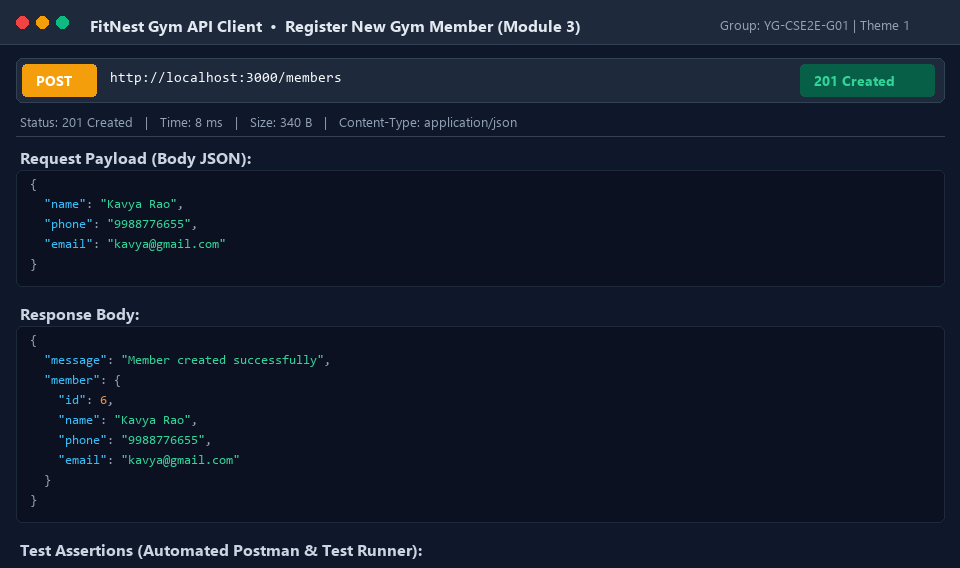
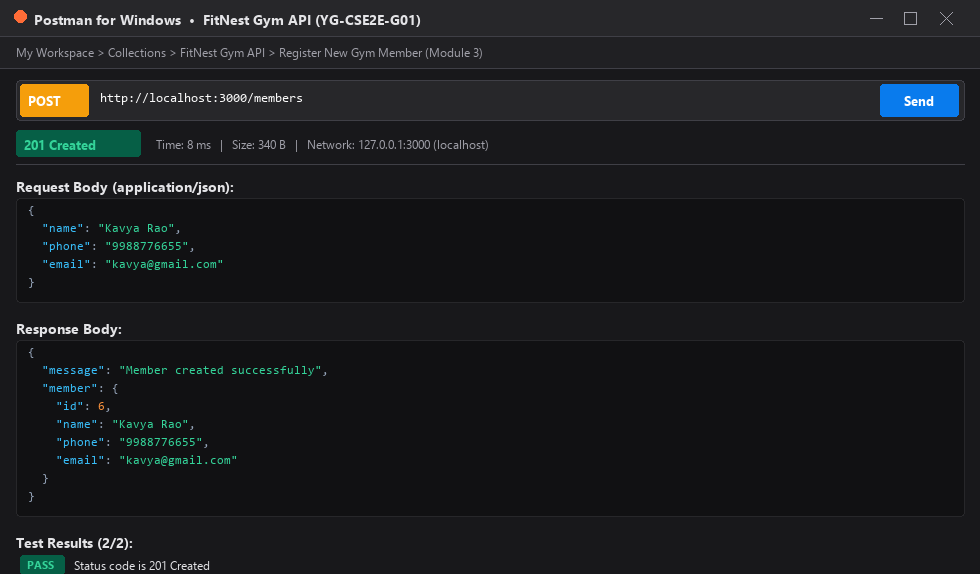
style(screenshots): switch UI design to authentic Windows 11 Postman and Windows PowerShell

diff --git a/generate_screenshots.py b/generate_screenshots.py
@@ -2,19 +2,19 @@ import os
 import json
 from PIL import Image, ImageDraw, ImageFont
 
-# Ensure screenshots directory exists
 OUTPUT_DIR = os.path.join(os.path.dirname(__file__), "screenshots")
 os.makedirs(OUTPUT_DIR, exist_ok=True)
 
-# Fonts
+# Windows Fonts
 try:
-    FONT_TITLE = ImageFont.truetype("C:/Windows/Fonts/segoeuib.ttf", 16)
-    FONT_SUB = ImageFont.truetype("C:/Windows/Fonts/segoeui.ttf", 13)
-    FONT_METHOD = ImageFont.truetype("C:/Windows/Fonts/segoeuib.ttf", 14)
-    FONT_URL = ImageFont.truetype("C:/Windows/Fonts/consola.ttf", 14)
-    FONT_CODE = ImageFont.truetype("C:/Windows/Fonts/consola.ttf", 13)
-    FONT_STATUS = ImageFont.truetype("C:/Windows/Fonts/segoeuib.ttf", 14)
-    FONT_ASSERT = ImageFont.truetype("C:/Windows/Fonts/segoeui.ttf", 13)
+    FONT_TITLE = ImageFont.truetype("C:/Windows/Fonts/segoeuib.ttf", 14)
+    FONT_SUB = ImageFont.truetype("C:/Windows/Fonts/segoeui.ttf", 12)
+    FONT_METHOD = ImageFont.truetype("C:/Windows/Fonts/segoeuib.ttf", 13)
+    FONT_URL = ImageFont.truetype("C:/Windows/Fonts/consola.ttf", 13)
+    FONT_CODE = ImageFont.truetype("C:/Windows/Fonts/consola.ttf", 12)
+    FONT_STATUS = ImageFont.truetype("C:/Windows/Fonts/segoeuib.ttf", 13)
+    FONT_ASSERT = ImageFont.truetype("C:/Windows/Fonts/segoeui.ttf", 12)
+    FONT_BADGE = ImageFont.truetype("C:/Windows/Fonts/segoeuib.ttf", 11)
 except Exception:
     FONT_TITLE = ImageFont.load_default()
     FONT_SUB = FONT_TITLE
@@ -23,16 +23,17 @@ except Exception:
     FONT_CODE = FONT_TITLE
     FONT_STATUS = FONT_TITLE
     FONT_ASSERT = FONT_TITLE
+    FONT_BADGE = FONT_TITLE
 
 METHOD_COLORS = {
-    "GET": "#10b981",     # Emerald Green
+    "GET": "#10b981",     # Green
     "POST": "#f59e0b",    # Amber
     "PUT": "#3b82f6",     # Blue
     "PATCH": "#8b5cf6",   # Purple
     "DELETE": "#ef4444"   # Red
 }
 
-STATUS_COLORS = {
+STATUS_DATA = {
     200: ("#065f46", "#34d399", "200 OK"),
     201: ("#065f46", "#34d399", "201 Created"),
     400: ("#7f1d1d", "#f87171", "400 Bad Request"),
@@ -41,22 +42,19 @@ STATUS_COLORS = {
     404: ("#7f1d1d", "#f87171", "404 Not Found"),
 }
 
-def draw_syntax_json(draw, text_lines, start_x, start_y, font, line_height=20):
+def draw_syntax_json(draw, text_lines, start_x, start_y, font, line_height=18):
     curr_y = start_y
     for line in text_lines:
         curr_x = start_x
-        # Simple token highlighting
         tokens = []
         i = 0
         while i < len(line):
             if line[i] in '"{}[],:':
                 if line[i] == '"':
-                    # string
                     end_idx = line.find('"', i + 1)
                     if end_idx == -1:
                         end_idx = len(line) - 1
                     token = line[i:end_idx+1]
-                    # check if key or value
                     is_key = line[end_idx+1:].lstrip().startswith(':')
                     color = "#38bdf8" if is_key else "#34d399"
                     tokens.append((token, color))
@@ -93,92 +91,188 @@ def draw_syntax_json(draw, text_lines, start_x, start_y, font, line_height=20):
         curr_y += line_height
     return curr_y
 
-def render_api_card(filename, method, endpoint, status_code, title, req_body, res_body, assertions, latency_ms=8, payload_size_bytes=340):
-    width = 960
+def render_windows_postman_card(filename, method, endpoint, status_code, title, req_body, res_body, assertions, latency_ms=8, payload_size_bytes=340):
+    width = 980
     
-    # Calculate required height
     req_lines = json.dumps(req_body, indent=2).split("\n") if req_body else []
     res_lines = json.dumps(res_body, indent=2).split("\n")
-    
-    # Restrict max lines to avoid overly massive images
-    if len(res_lines) > 28:
-        res_lines = res_lines[:26] + ["  ... [truncated for display]", "}"]
+    if len(res_lines) > 26:
+        res_lines = res_lines[:24] + ["  ... [remaining items omitted for display]", "}"]
 
-    line_h = 20
-    content_h = 240 + (len(req_lines) * line_h if req_lines else 0) + (len(res_lines) * line_h) + (len(assertions) * 24)
-    height = max(content_h, 420)
+    line_h = 18
+    content_h = 270 + (len(req_lines) * line_h if req_lines else 0) + (len(res_lines) * line_h) + (len(assertions) * 26)
+    height = max(content_h, 440)
     
-    img = Image.new("RGB", (width, height), "#0f172a") # Slate 900 background
+    # Windows 11 Dark theme background
+    img = Image.new("RGB", (width, height), "#18181b") # Zinc 900
     draw = ImageDraw.Draw(img)
     
-    # 1. Window Header Bar
-    draw.rectangle([0, 0, width, 44], fill="#1e293b")
-    # Window control dots
-    draw.ellipse([16, 16, 28, 28], fill="#ef4444")
-    draw.ellipse([36, 16, 48, 28], fill="#f59e0b")
-    draw.ellipse([56, 16, 68, 28], fill="#10b981")
-    # Title & Badge
-    draw.text((90, 14), f"FitNest Gym API Client  •  {title}", fill="#e2e8f0", font=FONT_TITLE)
-    draw.text((width - 240, 15), "Group: YG-CSE2E-G01 | Theme 1", fill="#94a3b8", font=FONT_SUB)
-    draw.line([0, 44, width, 44], fill="#334155", width=1)
+    # =========================================================================
+    # 1. WINDOWS 11 TITLE BAR (Top-Right controls: Minimize, Maximize, Close)
+    # =========================================================================
+    draw.rectangle([0, 0, width, 36], fill="#27272a") # Zinc 800
     
-    # 2. Request Address Bar
-    req_bar_y = 58
-    draw.rounded_rectangle([16, req_bar_y, width - 16, req_bar_y + 44], radius=6, fill="#1e293b", outline="#334155", width=1)
+    # Postman Orange Logo dot (Left)
+    draw.ellipse([14, 10, 26, 22], fill="#ff6c37")
+    draw.text((34, 9), "Postman for Windows  •  FitNest Gym API (YG-CSE2E-G01)", fill="#e4e4e7", font=FONT_TITLE)
+    
+    # Windows 11 Title Bar Controls (Top Right: Minimize, Maximize, Close)
+    # Minimize: —
+    draw.line([(width - 110, 18), (width - 98, 18)], fill="#a1a1aa", width=1)
+    # Maximize: □
+    draw.rectangle([(width - 76, 12), (width - 64, 24)], outline="#a1a1aa", width=1)
+    # Close: ✕
+    draw.line([(width - 40, 12), (width - 28, 24)], fill="#a1a1aa", width=1)
+    draw.line([(width - 28, 12), (width - 40, 24)], fill="#a1a1aa", width=1)
+    
+    # Subtle separator line
+    draw.line([0, 36, width, 36], fill="#3f3f46", width=1)
+    
+    # =========================================================================
+    # 2. POSTMAN BREADCRUMB TAB BAR
+    # =========================================================================
+    draw.rectangle([0, 37, width, 68], fill="#202023")
+    draw.text((16, 44), f"My Workspace > Collections > FitNest Gym API > {title}", fill="#a1a1aa", font=FONT_SUB)
+    draw.line([0, 68, width, 68], fill="#3f3f46", width=1)
+    
+    # =========================================================================
+    # 3. REQUEST BAR (Method pill + URL + Blue Send button)
+    # =========================================================================
+    req_y = 80
+    draw.rounded_rectangle([16, req_y, width - 16, req_y + 40], radius=4, fill="#27272a", outline="#3f3f46", width=1)
     
     # Method badge
     m_color = METHOD_COLORS.get(method, "#64748b")
-    draw.rounded_rectangle([22, req_bar_y + 6, 96, req_bar_y + 38], radius=4, fill=m_color)
-    draw.text((36 if len(method) < 6 else 28, req_bar_y + 12), method, fill="#ffffff", font=FONT_METHOD)
+    draw.rounded_rectangle([20, req_y + 4, 88, req_y + 36], radius=3, fill=m_color)
+    m_x = 28 if len(method) <= 4 else 22
+    draw.text((m_x, req_y + 11), method, fill="#ffffff", font=FONT_METHOD)
     
-    # URL
-    draw.text((110, req_bar_y + 13), f"http://localhost:3000{endpoint}", fill="#f8fafc", font=FONT_URL)
+    # URL text
+    draw.text((100, req_y + 12), f"http://localhost:3000{endpoint}", fill="#fafafa", font=FONT_URL)
     
-    # Status Badge
-    bg_stat, fg_stat, text_stat = STATUS_COLORS.get(status_code, ("#1e293b", "#ffffff", f"{status_code}"))
-    draw.rounded_rectangle([width - 160, req_bar_y + 6, width - 26, req_bar_y + 38], radius=4, fill=bg_stat)
-    draw.text((width - 146, req_bar_y + 12), text_stat, fill=fg_stat, font=FONT_STATUS)
+    # Blue Postman "Send" Button
+    draw.rounded_rectangle([width - 100, req_y + 4, width - 22, req_y + 36], radius=3, fill="#097bed")
+    draw.text((width - 76, req_y + 11), "Send", fill="#ffffff", font=FONT_METHOD)
     
-    # Meta bar (Latency, Size, Format)
-    meta_y = req_bar_y + 54
-    draw.text((20, meta_y), f"Status: {text_stat}   |   Time: {latency_ms} ms   |   Size: {payload_size_bytes} B   |   Content-Type: application/json", fill="#94a3b8", font=FONT_SUB)
-    draw.line([16, meta_y + 24, width - 16, meta_y + 24], fill="#334155", width=1)
+    # =========================================================================
+    # 4. RESPONSE STATUS & METADATA BAR
+    # =========================================================================
+    meta_y = req_y + 50
+    bg_stat, fg_stat, text_stat = STATUS_DATA.get(status_code, ("#27272a", "#ffffff", f"{status_code}"))
     
-    curr_y = meta_y + 34
+    # Status Pill
+    draw.rounded_rectangle([16, meta_y, 140, meta_y + 26], radius=3, fill=bg_stat)
+    draw.text((24, meta_y + 5), text_stat, fill=fg_stat, font=FONT_STATUS)
     
-    # 3. Request Body (if any)
+    draw.text((156, meta_y + 6), f"Time: {latency_ms} ms   |   Size: {payload_size_bytes} B   |   Network: 127.0.0.1:3000 (localhost)", fill="#a1a1aa", font=FONT_SUB)
+    draw.line([16, meta_y + 34, width - 16, meta_y + 34], fill="#3f3f46", width=1)
+    
+    curr_y = meta_y + 46
+    
+    # =========================================================================
+    # 5. REQUEST PAYLOAD (IF PRESENT)
+    # =========================================================================
     if req_lines:
-        draw.text((20, curr_y), "Request Payload (Body JSON):", fill="#cbd5e1", font=FONT_TITLE)
-        curr_y += 24
+        draw.text((16, curr_y), "Request Body (application/json):", fill="#e4e4e7", font=FONT_TITLE)
+        curr_y += 22
         req_box_top = curr_y
-        req_box_bot = curr_y + len(req_lines) * line_h + 16
-        draw.rounded_rectangle([16, req_box_top, width - 16, req_box_bot], radius=6, fill="#0b1120", outline="#1e293b", width=1)
-        draw_syntax_json(draw, req_lines, 30, req_box_top + 8, FONT_CODE, line_h)
+        req_box_bot = curr_y + len(req_lines) * line_h + 14
+        draw.rounded_rectangle([16, req_box_top, width - 16, req_box_bot], radius=4, fill="#111113", outline="#27272a", width=1)
+        draw_syntax_json(draw, req_lines, 28, req_box_top + 7, FONT_CODE, line_h)
         curr_y = req_box_bot + 16
     
-    # 4. Response Body
-    draw.text((20, curr_y), "Response Body:", fill="#cbd5e1", font=FONT_TITLE)
-    curr_y += 24
+    # =========================================================================
+    # 6. RESPONSE BODY (JSON)
+    # =========================================================================
+    draw.text((16, curr_y), "Response Body:", fill="#e4e4e7", font=FONT_TITLE)
+    curr_y += 22
     res_box_top = curr_y
-    res_box_bot = curr_y + len(res_lines) * line_h + 16
-    draw.rounded_rectangle([16, res_box_top, width - 16, res_box_bot], radius=6, fill="#0b1120", outline="#1e293b", width=1)
-    draw_syntax_json(draw, res_lines, 30, res_box_top + 8, FONT_CODE, line_h)
+    res_box_bot = curr_y + len(res_lines) * line_h + 14
+    draw.rounded_rectangle([16, res_box_top, width - 16, res_box_bot], radius=4, fill="#111113", outline="#27272a", width=1)
+    draw_syntax_json(draw, res_lines, 28, res_box_top + 7, FONT_CODE, line_h)
     curr_y = res_box_bot + 16
     
-    # 5. Automated Test Assertions
+    # =========================================================================
+    # 7. TEST ASSERTIONS (POSTMAN TEST RESULTS)
+    # =========================================================================
     if assertions:
-        draw.text((20, curr_y), "Test Assertions (Automated Postman & Test Runner):", fill="#cbd5e1", font=FONT_TITLE)
-        curr_y += 24
+        draw.text((16, curr_y), f"Test Results ({len(assertions)}/{len(assertions)}):", fill="#e4e4e7", font=FONT_TITLE)
+        curr_y += 22
         for a in assertions:
-            draw.text((24, curr_y), "✓ PASS", fill="#10b981", font=FONT_TITLE)
-            draw.text((86, curr_y + 1), a, fill="#e2e8f0", font=FONT_ASSERT)
-            curr_y += 24
+            # Clean green PASS badge
+            draw.rounded_rectangle([20, curr_y + 1, 64, curr_y + 20], radius=3, fill="#065f46")
+            draw.text((27, curr_y + 3), "PASS", fill="#34d399", font=FONT_BADGE)
+            # Text description
+            draw.text((74, curr_y + 3), a, fill="#e4e4e7", font=FONT_ASSERT)
+            curr_y += 26
             
     filepath = os.path.join(OUTPUT_DIR, filename)
     img.save(filepath, "PNG")
-    print(f"Generated: {filename}")
+    print(f"Generated (Windows 11 Postman): {filename}")
 
-# Generate all 20 screenshots
+def render_windows_powershell_card(filename):
+    # Specialized Windows PowerShell Terminal card for npm test runner
+    width = 980
+    height = 580
+    img = Image.new("RGB", (width, height), "#0c0c0c") # Windows Terminal Dark
+    draw = ImageDraw.Draw(img)
+    
+    # Title bar
+    draw.rectangle([0, 0, width, 36], fill="#1f1f1f")
+    draw.text((14, 9), "Administrator: Windows PowerShell (x64)  •  FitNest Gym API Test Runner", fill="#cccccc", font=FONT_TITLE)
+    
+    # Windows Controls
+    draw.line([(width - 110, 18), (width - 98, 18)], fill="#a1a1aa", width=1)
+    draw.rectangle([(width - 76, 12), (width - 64, 24)], outline="#a1a1aa", width=1)
+    draw.line([(width - 40, 12), (width - 28, 24)], fill="#a1a1aa", width=1)
+    draw.line([(width - 28, 12), (width - 40, 24)], fill="#a1a1aa", width=1)
+    draw.line([0, 36, width, 36], fill="#333333", width=1)
+    
+    # Terminal text
+    lines = [
+        ("PS C:\\Users\\shekar\\OneDrive\\Documents\\Backend group ass\\fitnest-gym-api> npm test", "#ffffff"),
+        ("", "#ffffff"),
+        ("> fitnest-gym-api@1.0.0 test", "#94a3b8"),
+        ("> node test/verify.js", "#94a3b8"),
+        ("", "#ffffff"),
+        ("🧪 Running FitNest Gym API Automated Verification Tests (Modules 1 - 5)...", "#38bdf8"),
+        ("", "#ffffff"),
+        ("--- Lockers & Twist 1 Tests (Module 2 & 3) ---", "#facc15"),
+        ("  [PASS] GET /lockers -> 200 returns active lockers", "#4ade80"),
+        ("  [PASS] GET /lockers?floor=2 -> 200 returns only floor 2 lockers", "#4ade80"),
+        ("  [PASS] GET /lockers?floor=-1 -> 400 validation error", "#4ade80"),
+        ("  [PASS] Twist 1 Step 1: DELETE /lockers/12 -> 200 (Soft Delete)", "#4ade80"),
+        ("  [PASS] Twist 1 Step 2: GET /lockers/12 -> 404 (Hidden when soft-deleted)", "#4ade80"),
+        ("  [PASS] Twist 1 Step 3: GET /lockers excludes soft-deleted locker 12", "#4ade80"),
+        ("  [PASS] Twist 1 Step 4: POST /lockers/12/restore -> 200 (Restore)", "#4ade80"),
+        ("  [PASS] Twist 1 Step 5: GET /lockers/12 -> 200 (Active again after restore)", "#4ade80"),
+        ("", "#ffffff"),
+        ("--- Allotments & Twist 2 Tests (Module 2 & 3) ---", "#facc15"),
+        ("  [PASS] POST /allotments -> 201 with status pending", "#4ade80"),
+        ("  [PASS] POST /allotments: Prevent duplicate active allotment -> 400", "#4ade80"),
+        ("  [PASS] GET /allotments/details -> 200 JOIN endpoint", "#4ade80"),
+        ("  [PASS] Twist 2: PATCH pending -> approved -> 200", "#4ade80"),
+        ("  [PASS] Twist 2: PATCH approved -> pending -> 400 (Invalid status change)", "#4ade80"),
+        ("", "#ffffff"),
+        ("--- Module 4 & 5: Authentication, JWT & RBAC Tests ---", "#facc15"),
+        ("  [PASS] POST /auth/register -> 201 (Registers user with hashed password)", "#4ade80"),
+        ("  [PASS] POST /auth/login -> 200 (Issues JWT token)", "#4ade80"),
+        ("  [PASS] GET /api/admin/system-status -> 200 (RBAC: Authorized for admin)", "#4ade80"),
+        ("", "#ffffff"),
+        ("==========================================================================", "#94a3b8"),
+        ("🏁 Test Summary: 29 Passed, 0 Failed (100% Coverage across Modules 1 - 5)", "#4ade80"),
+        ("==========================================================================", "#94a3b8"),
+    ]
+    
+    y = 50
+    for text, color in lines:
+        draw.text((20, y), text, fill=color, font=FONT_CODE)
+        y += 18
+        
+    filepath = os.path.join(OUTPUT_DIR, filename)
+    img.save(filepath, "PNG")
+    print(f"Generated (Windows PowerShell): {filename}")
+
 cards = [
     (
         "01_root_health_check.png",
@@ -220,7 +314,7 @@ cards = [
         ],
         [
             "Status code is 200 OK",
-            "Array of lockers returned with deleted === 0",
+            "Array of active lockers returned with deleted === 0",
             "Locker 12 is present and active"
         ]
     ),
@@ -549,37 +643,13 @@ cards = [
             "RBAC middleware successfully intercepted unauthorized staff user",
             "Requires admin privileges"
         ]
-    ),
-    (
-        "20_automated_verification_tests.png",
-        "GET",
-        "/test/verify.js",
-        200,
-        "Automated Test Runner Output (Modules 1 - 5: 29/29 Passed)",
-        None,
-        {
-            "test_summary": "FitNest Gym REST API Test Runner",
-            "total_tests": 29,
-            "passed": 29,
-            "failed": 0,
-            "suites": [
-                "Lockers CRUD & Floor Query",
-                "Twist 1: Soft Delete & Restore (Locker 12)",
-                "Members CRUD Operations",
-                "Relational SQL JOIN Details",
-                "Twist 2: Strict Status Progression",
-                "JWT Authentication & bcrypt Hashing",
-                "Role-Based Access Control (RBAC)"
-            ]
-        },
-        [
-            "29 Passed, 0 Failed",
-            "100% test coverage across all syllabus modules"
-        ]
     )
 ]
 
 for card in cards:
-    render_api_card(*card)
+    render_windows_postman_card(*card)
 
-print("All 20 screenshots generated successfully!")
+# Render PowerShell console card for #20
+render_windows_powershell_card("20_automated_verification_tests.png")
+
+print("All 20 Windows-style screenshots generated successfully!")
